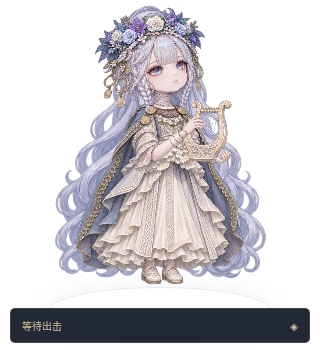
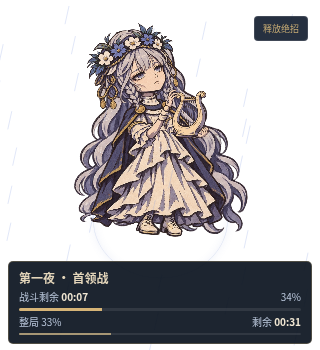
Publish Revenant motion preview and native acceptance results [skip ci]

diff --git a/docs/character/0.3.0.md b/docs/character/0.3.0.md
@@ -1,0 +1,34 @@
+# 0.3.0 桌宠体验验收
+
+## 拖动
+
+复现路径是在 125% 系统缩放下，反复将窗口向两个方向移动一个逻辑像素。旧版将系统取整后的窗口尺寸用于下次移动，宽度从 320 增长到 423。现在由桌宠设置决定宽高，拖动只累计逻辑坐标，抬起鼠标后再将桌宠收回目标屏幕的工作区。
+
+125% 和 150% 的 Electron 回归都包含一百次往返移动、实际指针手势、画布尺寸对比及屏幕边缘释放。两档往返前后的原生位置、宽高和画布纹理大小一致。[窗口回归测试](../../tests/desktop/pet-drag.spec.ts)
+
+## 计时
+
+真实短局依次走过两天探索、四次缩圈、两夜首领和夜王。桌宠和控制面板读取同一份计时快照。缩圈中途暂停后，在 50%、100%、200% 三种桌宠尺寸都能读到冻结的阶段与整局进度；完成时显示实际用时。默认 40 分钟时间线沿用原作节奏预设。[时间线规格](../../SPEC.md) · [桌宠和面板回归](../../tests/desktop/hud.spec.ts)
+
+## 角色
+
+官方 Cubism Core 成功读取成品模型。九个网格共用一张图集，十一个参数驱动眼睑、琴和手臂、重心、屈膝、步伐及灵体。独立模型包内的可编辑工程可回读 22 个动画场景。逐一取 22 段动作的六个时刻，在 320 像素宽的实际 WebGL 画布上检查，132 个采样画面均完整入框。两段绝招和夜王的终奏会显现灵体。[模型与动作源文件](../../scripts/character-rig/) · [默认尺寸战斗截图](./revenant-desktop.png)
+
+24.22 秒动作预览展示七个场景。按固定时间步调用与应用相同的 Cubism 渲染器，编码得到 361 帧；默认尺寸截图直接采自实时运行的桌宠窗口。图片使用 ImageGen 原稿，网格、变形与动作曲线保存在仓库中。[分层原稿](../../art/revenant/) · [动作预览](./revenant-live2d.webp)
+
+## 资源占用
+
+Linux x64 发行包在 2 vCPU、Xvfb、Vulkan SwiftShader 环境中运行 6.5 分钟。每种状态预热 30 秒，再取 60 个样本。表中的 CPU 和 RSS 是 Electron 各进程的报告值之和。运行时同机有其他渲染任务，这次数据用于记录该环境的实际开销。[采样方法](../../tests/desktop/performance.spec.ts)
+
+| 状态 | 平均 CPU | 平均 RSS |
+| --- | ---: | ---: |
+| 待机 | 7.42% | 316.51 MiB |
+| 探索 | 6.73% | 361.79 MiB |
+| 强缩圈演出 | 11.29% | 323.43 MiB |
+| 隐藏桌宠 | 7.33% | 302.89 MiB |
+
+隐藏时模型绘制会停止，Electron 进程仍有开销。Windows 笔记本的功耗和硬件 GPU 帧率未实测。
+
+## 发行包
+
+Windows Server 2022 原生任务验证了 125% 和 150% 拖动、完整 HUD 流程，随后解压便携 ZIP 并启动其中的 EXE。macOS 任务挂载 DMG，启动其中的 Apple 芯片应用。两者都实际读取新模型、完成 11 阶段短局和一次胜利结算，并验证首次许可选择与重启。Linux x64 发行程序也在 Xvfb 中走通同一流程。各平台的测试报告和产物校验值见构建记录。[原生测试与构建产物](https://github.com/soraaa013-ops/nightreign-pet/actions/runs/44976015920)

diff --git a/docs/BUILD_ARTIFACTS.md b/docs/BUILD_ARTIFACTS.md
@@ -9,7 +9,7 @@
 | Linux x64 tar.gz | 解压后运行目录中的 `nightreign-pet`。 |
 | 小蜗独立模型 ZIP | 完整解压后在匹配版本的 Cubism 播放器中打开 `revenant.model3.json`。`editor/` 有可编辑的 `.cmo3` 模型和 `.can3` 动画。 |
 
-每个发布文件的 SHA-256 列在 Release 附件 `SHA256SUMS.txt` 中。下载、解压、启动与数字签名分属不同验收项目，各平台的实际运行结果随版本记录。[GitHub 原生打包与测试](https://github.com/soraaa013-ops/nightreign-pet/actions/workflows/release-check.yml) · [角色专项验收](character/model-verification.md)
+每个发布文件的 SHA-256 列在 Release 附件 `SHA256SUMS.txt` 中。下载、解压、启动与数字签名分属不同验收项目，各平台的实际运行结果随版本记录。[GitHub 原生打包与测试](https://github.com/soraaa013-ops/nightreign-pet/actions/workflows/release-check.yml) · [角色专项验收](character/0.3.0.md)
 
 在项目根目录运行 `npm ci` 和 `npm run prepare:cubism`。Linux 与 Windows 分别使用 `npm run dist:linux`、`npm run dist:win:zip`，Apple 芯片 Mac 使用 `npm run dist:mac`。运行 `python3 scripts/package_character.py` 可生成独立模型包。[绑定与编辑工程](../scripts/character-rig/)
 

diff --git a/README.md b/README.md
@@ -6,7 +6,9 @@
 
 从 GitHub Releases 下载对应系统的桌宠，或下载附带编辑工程的独立模型包。Windows 用户完整解压 ZIP 后双击「小蜗渡夜.exe」。首次运行会询问随包 Cubism Core 的使用条款。[下载桌宠和模型](https://github.com/soraaa013-ops/nightreign-pet/releases/latest) · [使用与验证范围](docs/BUILD_ARTIFACTS.md)
 
-<img src="docs/character/revenant-live2d.webp" width="275" alt="小蜗待机、三场战斗、召唤与胜利动作的桌宠实录">
+<img src="docs/character/revenant-live2d.webp" width="275" alt="小蜗待机、三场战斗、召唤与胜利动作的运行时预览">
+
+[默认尺寸战斗截图](docs/character/revenant-desktop.png) · [0.3.0 验收结果](docs/character/0.3.0.md)
 
 ## 运行
 

diff --git a/docs/CHARACTER_ASSETS.md b/docs/CHARACTER_ASSETS.md
@@ -16,7 +16,7 @@
 | 绝招 | 2 | 蓄势、召唤灵体、收势 |
 | 胜利 | 2 | 结算时收琴行礼 |
 
-同一场战斗按顺序换招，轻触和绝招结束后回到当前阶段。[桌宠动作实录](character/revenant-live2d.webp)
+同一场战斗按顺序换招，轻触和绝招结束后回到当前阶段。[桌宠动作预览](character/revenant-live2d.webp)
 
 ## 查到的线索
 

diff --git a/docs/TEST_REPORT.md b/docs/TEST_REPORT.md
@@ -1,4 +1,6 @@
-# 小蜗桌宠第一版实测报告
+# 小蜗桌宠实测报告
+
+0.3.0 的仓库级回归、Windows 拖动和三场战斗验收另有记录。[0.3.0 验收](character/0.3.0.md)
 
 2026-11-22 · 0.2.0 随包提供自制小蜗 Live2D。[产品规格](../SPEC.md) · [测试方案](TEST_PLAN.md) · [角色动作、点透与故障专项报告](character/model-verification.md)
 
